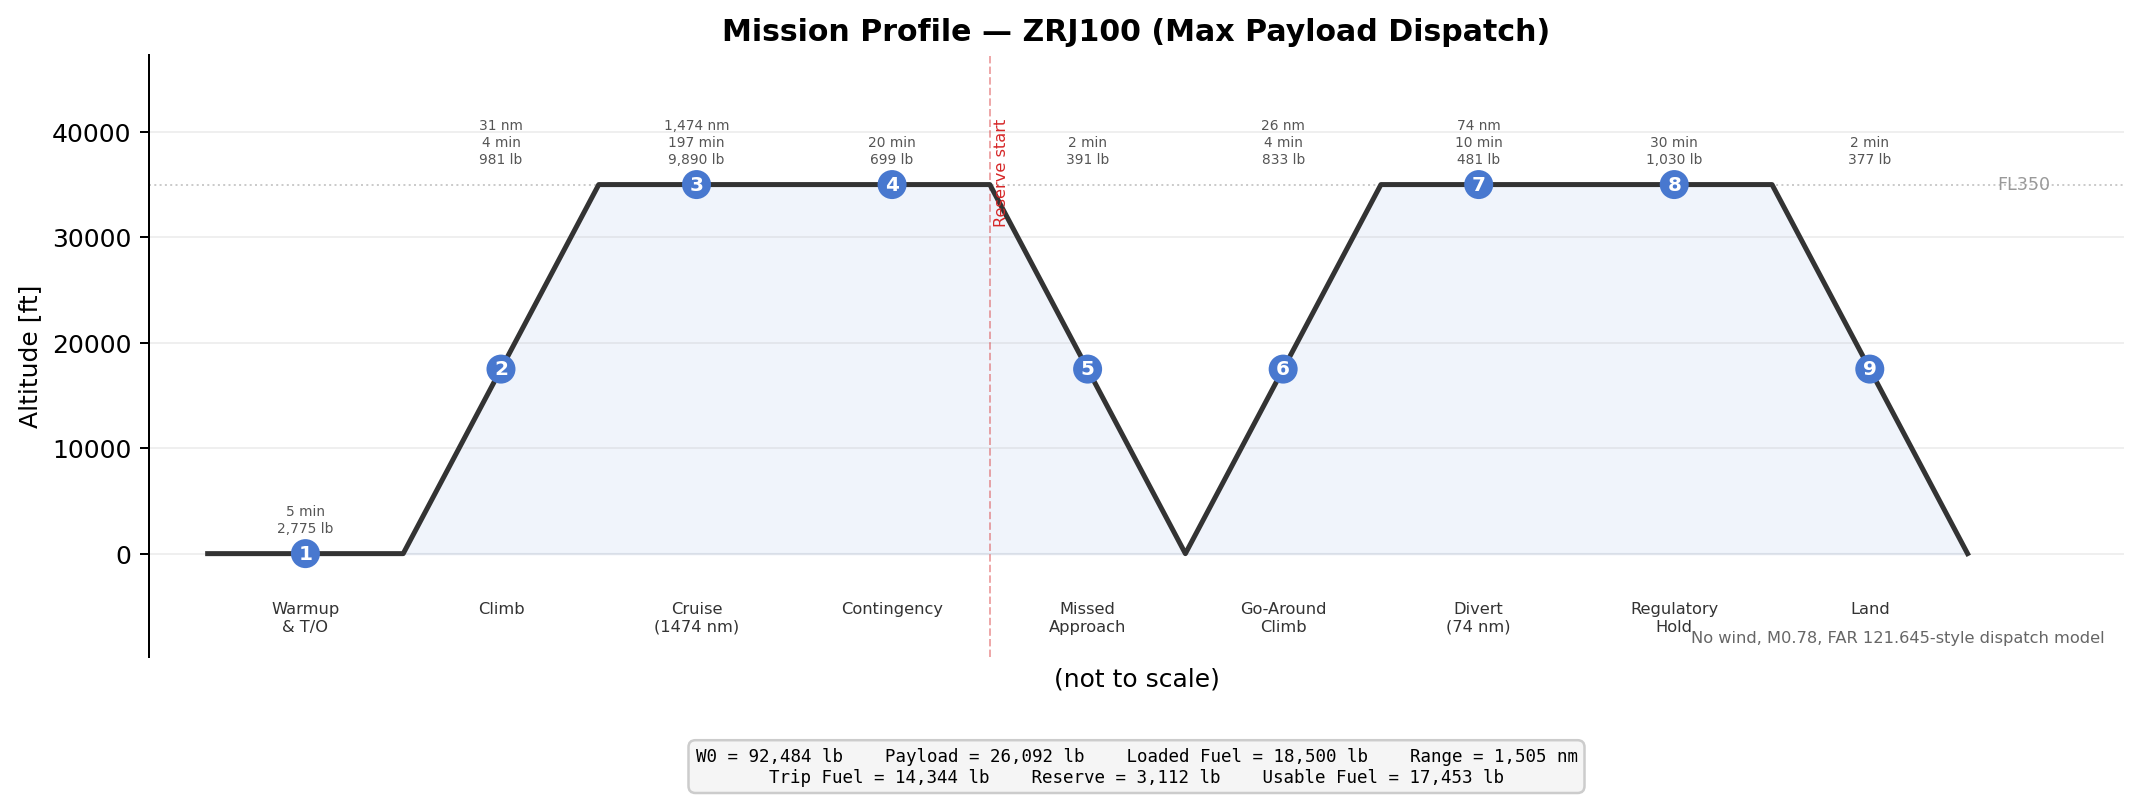
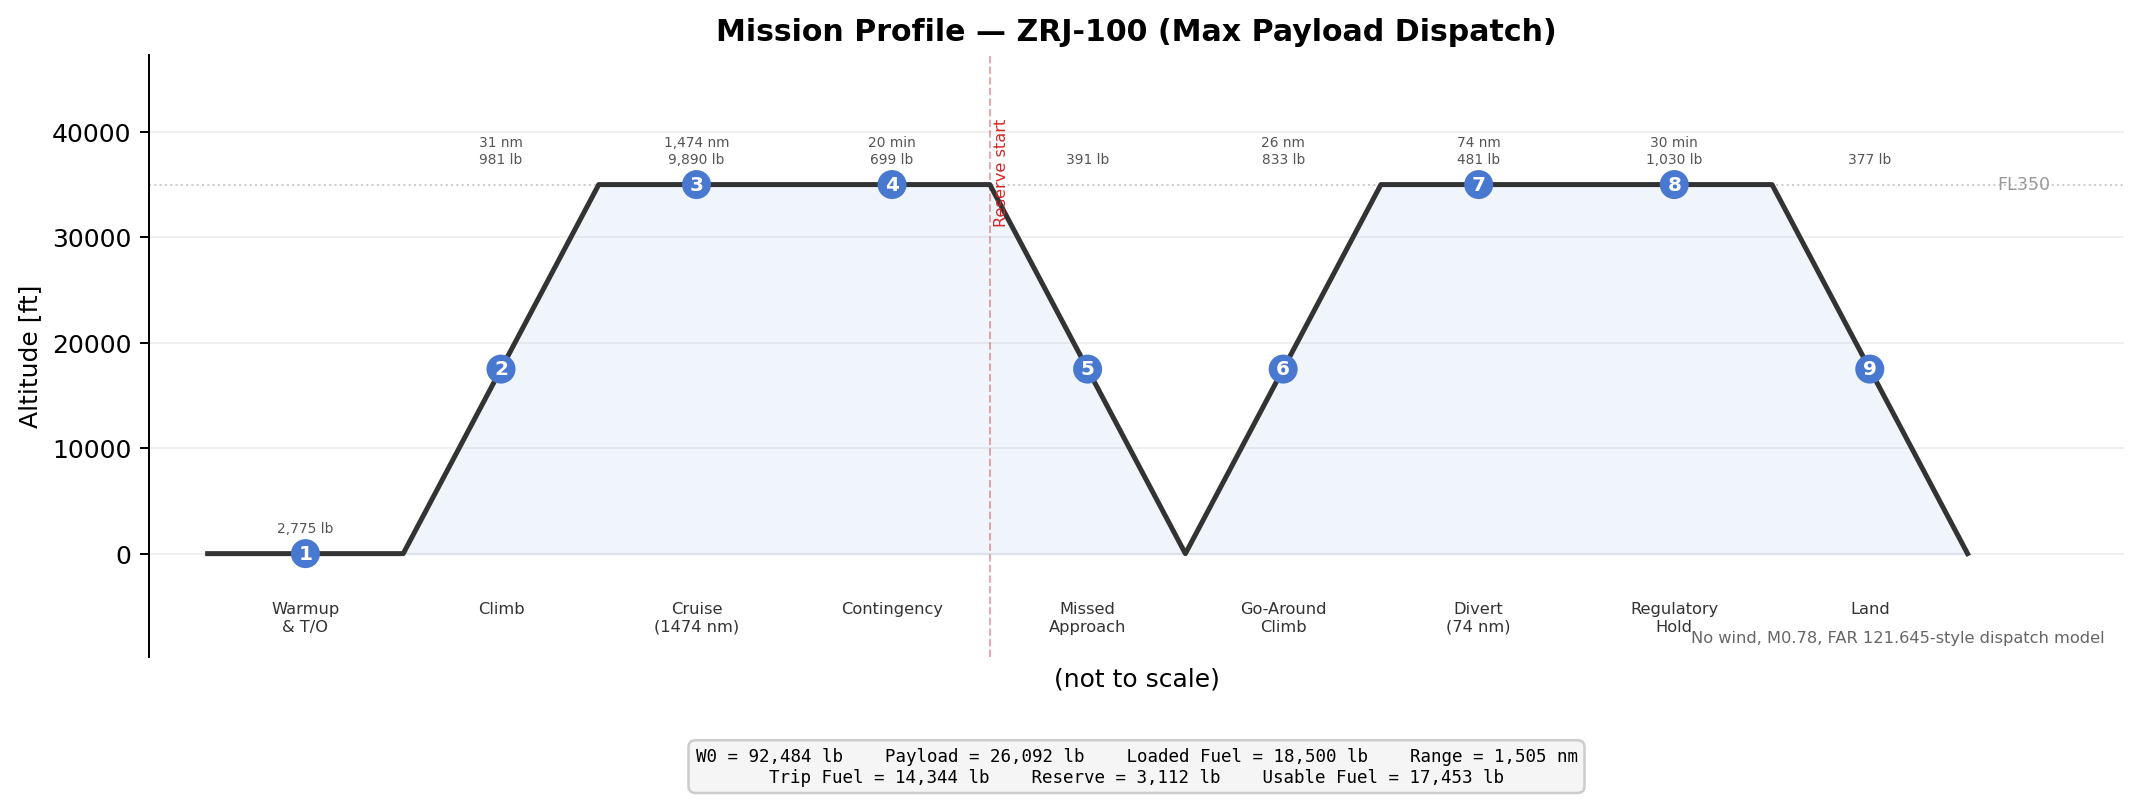
Update ZRJ chart labels

diff --git a/scripts/generate_mission_profile.py b/scripts/generate_mission_profile.py
@@ -14,6 +14,10 @@ import matplotlib.pyplot as plt
 import generate_payload_range as model
 
 
+def display_name(name: str) -> str:
+    return model.display_name(name)
+
+
 @dataclass
 class Segment:
     name: str
@@ -38,6 +42,10 @@ class ProfileResult:
     reserve_fuel_lb: float
     w0: float
     segments: list[Segment]
+
+
+def show_time_on_chart(seg: Segment) -> bool:
+    return seg.name.startswith("Contingency") or seg.name.startswith("Regulatory Hold")
 
 
 def compute_cruise_segment(
@@ -309,7 +317,7 @@ def plot_profile(result: ProfileResult, ac: model.AircraftConfig, output_path: P
         info = []
         if seg.distance_nm > 0:
             info.append(f"{seg.distance_nm:,.0f} nm")
-        if seg.time_min > 0:
+        if show_time_on_chart(seg) and seg.time_min > 0:
             info.append(f"{seg.time_min:,.0f} min")
         info.append(f"{seg.fuel_burned:,.0f} lb")
         ax.text(
@@ -354,7 +362,7 @@ def plot_profile(result: ProfileResult, ac: model.AircraftConfig, output_path: P
     ax.set_xlim(-0.3, x_points[-1] + 0.8)
     ax.set_ylim(-cruise_alt * 0.28, cruise_alt * 1.35)
     ax.set_ylabel("Altitude [ft]")
-    ax.set_title(f"Mission Profile — {result.aircraft_name} ({result.profile_name})", fontweight="bold")
+    ax.set_title(f"Mission Profile — {display_name(result.aircraft_name)} ({result.profile_name})", fontweight="bold")
     ax.set_xticks([])
     ax.set_xlabel("(not to scale)")
     ax.grid(axis="y", alpha=0.2)

diff --git a/scripts/generate_payload_range.py b/scripts/generate_payload_range.py
@@ -101,6 +101,14 @@ ZRJ100 = AircraftConfig(
 )
 
 
+def display_name(name: str) -> str:
+    if name == "ZRJ70":
+        return "ZRJ-70"
+    if name == "ZRJ100":
+        return "ZRJ-100"
+    return name
+
+
 def crew_weight(ac: AircraftConfig) -> float:
     return (ac.n_pilots + ac.n_flight_attendants) * ac.person_weight
 
@@ -313,8 +321,8 @@ def compute_payload_range_curve(ac: AircraftConfig, wind_kts: float = 0.0, sampl
 
 def plot_payload_range(output_path: Path, wind_kts: float, samples: int) -> None:
     curves = [
-        ("ZRJ70", ZRJ70, "#1f77b4"),
-        ("ZRJ100", ZRJ100, "#ff7f0e"),
+        (display_name("ZRJ70"), ZRJ70, "#1f77b4"),
+        (display_name("ZRJ100"), ZRJ100, "#ff7f0e"),
     ]
     data = [(label, ac, color, compute_payload_range_curve(ac, wind_kts, samples)) for label, ac, color in curves]
 
